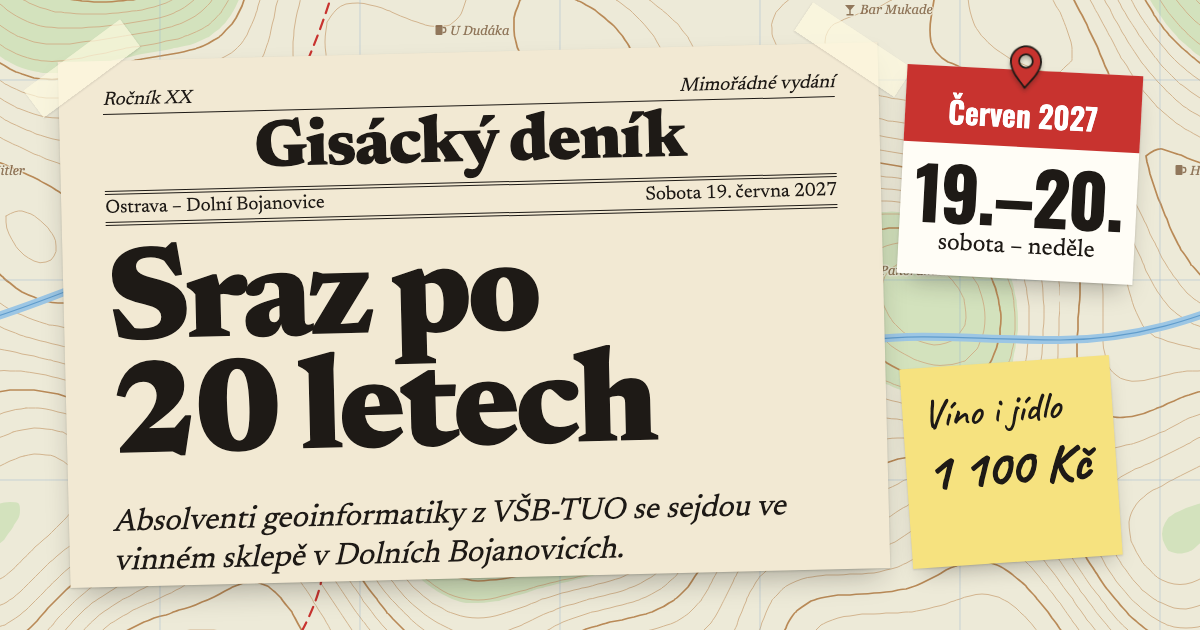
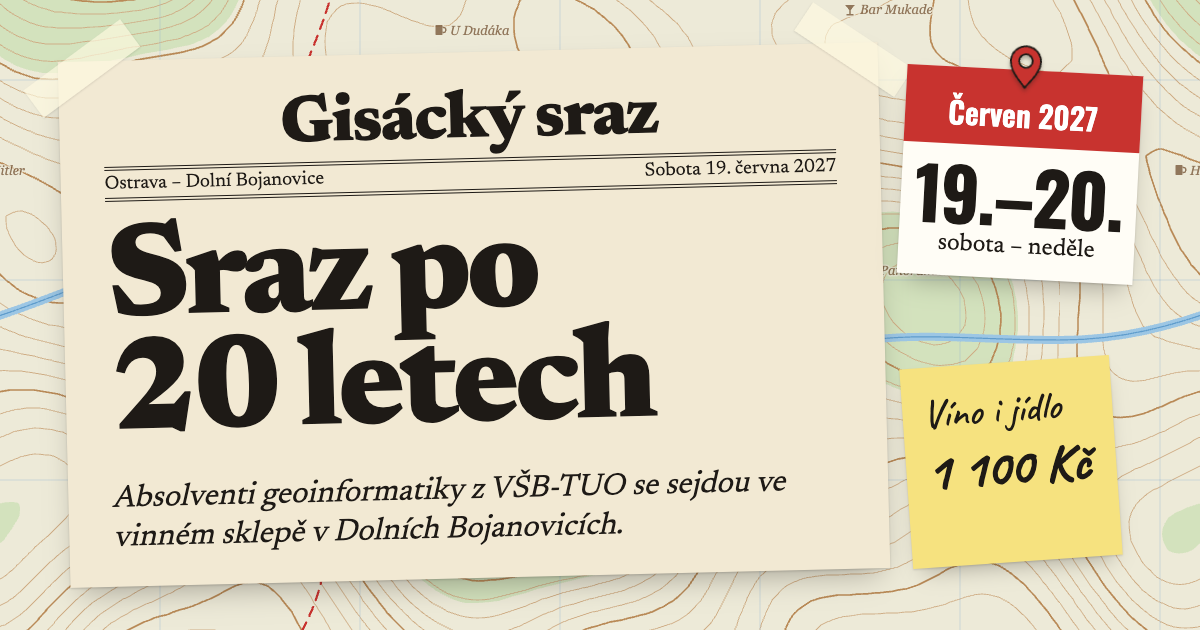
Use the Gisácký sraz masthead on the 404 page and the link preview image

diff --git a/scripts/og-image.html b/scripts/og-image.html
@@ -80,11 +80,6 @@
 				justify-content: space-between;
 				font-size: 19px;
 			}
-			.top {
-				border-bottom: 1px solid #1e1a16;
-				padding-bottom: 4px;
-				font-style: italic;
-			}
 			.masthead {
 				padding: 6px 0 4px;
 				text-align: center;
@@ -179,8 +174,7 @@
 		<div class="paper">
 			<div class="tape" style="left: -36px; top: -10px; transform: rotate(-35deg)"></div>
 			<div class="tape" style="right: -36px; top: -10px; transform: rotate(35deg)"></div>
-			<div class="row top"><span>Ročník XX</span><span>Mimořádné vydání</span></div>
-			<p class="masthead">Gisácký deník</p>
+			<p class="masthead">Gisácký sraz</p>
 			<div class="row dateline"><span>Ostrava – Dolní Bojanovice</span><span>Sobota 19. června 2027</span></div>
 			<h1>Sraz po 20&nbsp;letech</h1>
 			<p class="lead">Absolventi geoinformatiky z&nbsp;VŠB-TUO se sejdou ve vinném sklepě v&nbsp;Dolních Bojanovicích.</p>
